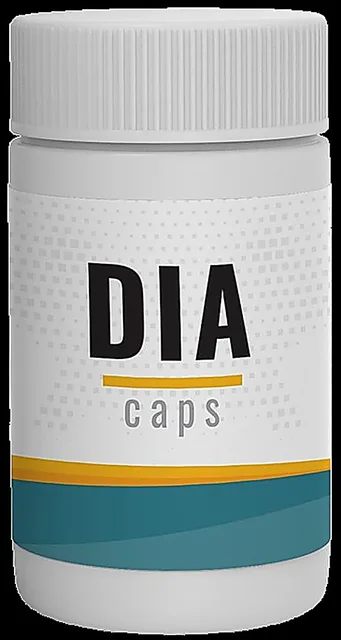
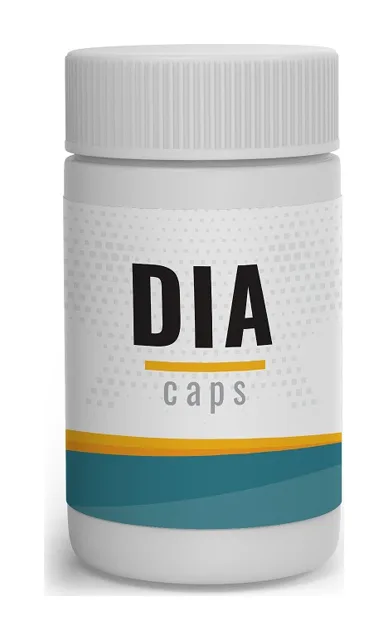
Фото: прозрачный фон снова белый (406 кадров стали чёрными при увеличении 03.10), брак заменён — чёрный/цветной фон, обрезанные краем упаковки, полосы, капсулы рядом, битые файлы

diff --git a/lb/glucoren-13347/index.html b/lb/glucoren-13347/index.html
@@ -321,7 +321,7 @@ body.free .disc,body:not(.free) .nodisc{display:none}
       <div>
         <div class="product-card">
           <span class="disc-ribbon disc">-50%</span>
-          <img src="../../img/leadbit-glucoren.webp" alt="Glucoren" width="640" height="524" fetchpriority="high" decoding="async">
+          <img src="../../img/leadbit-glucoren.webp" alt="Glucoren" width="640" height="465" fetchpriority="high" decoding="async">
           <div><span class="ribbon">Original</span><div class="shotcap">To je originalna embalaža, ki jo prinese dostavljavec: plomba, številka serije, rok uporabe.</div></div>
         </div>
       </div>

diff --git a/lb/glucoren/index.html b/lb/glucoren/index.html
@@ -321,7 +321,7 @@ body.free .disc,body:not(.free) .nodisc{display:none}
       <div>
         <div class="product-card">
           <span class="disc-ribbon disc">-50%</span>
-          <img src="../../img/leadbit-glucoren.webp" alt="Glucoren" width="640" height="524" fetchpriority="high" decoding="async">
+          <img src="../../img/leadbit-glucoren.webp" alt="Glucoren" width="640" height="465" fetchpriority="high" decoding="async">
           <div><span class="ribbon">Original</span><div class="shotcap">To je originalna embalaža, ki jo prinese dostavljavec: plomba, številka serije, rok uporabe.</div></div>
         </div>
       </div>

diff --git a/lr/diacaps/index.html b/lr/diacaps/index.html
@@ -321,7 +321,7 @@ body.free .disc,body:not(.free) .nodisc{display:none}
       <div>
         <div class="product-card">
           <span class="disc-ribbon disc">-50%</span>
-          <img src="../../img/big-e84487f931.webp" alt="DiaCaps" width="341" height="640" fetchpriority="high" decoding="async">
+          <img src="../../img/big-e84487f931.webp" alt="DiaCaps" width="388" height="640" fetchpriority="high" decoding="async">
           <div><span class="ribbon">Original</span><div class="shotcap">To je originalna embalaža, ki jo prinese dostavljavec: plomba, številka serije, rok uporabe.</div></div>
         </div>
       </div>
